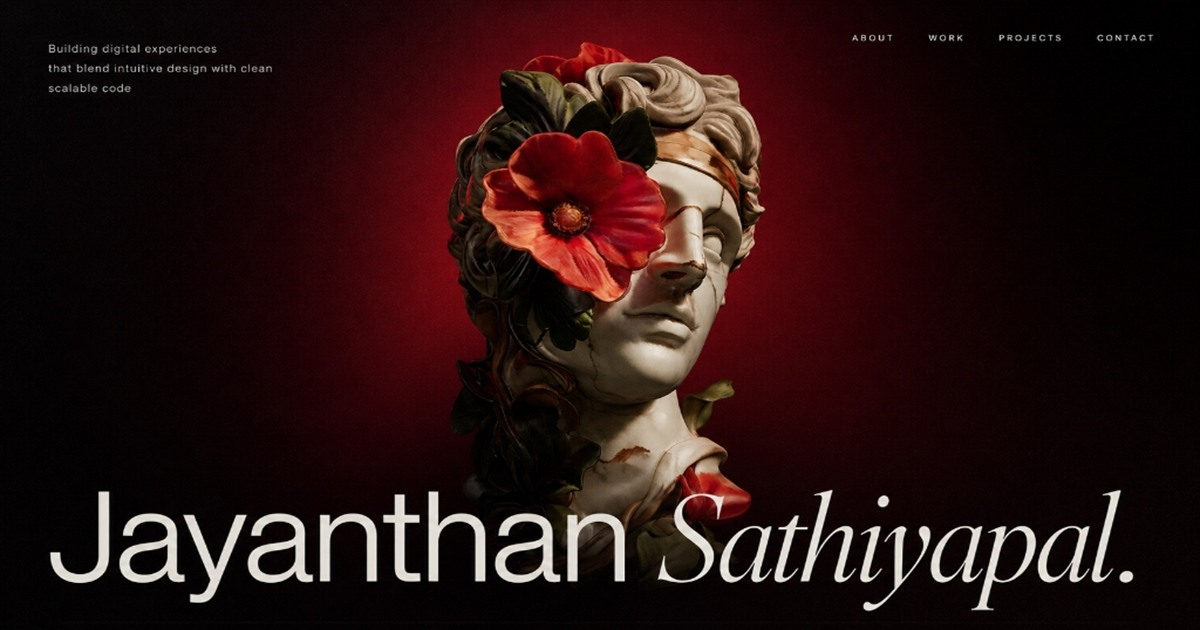
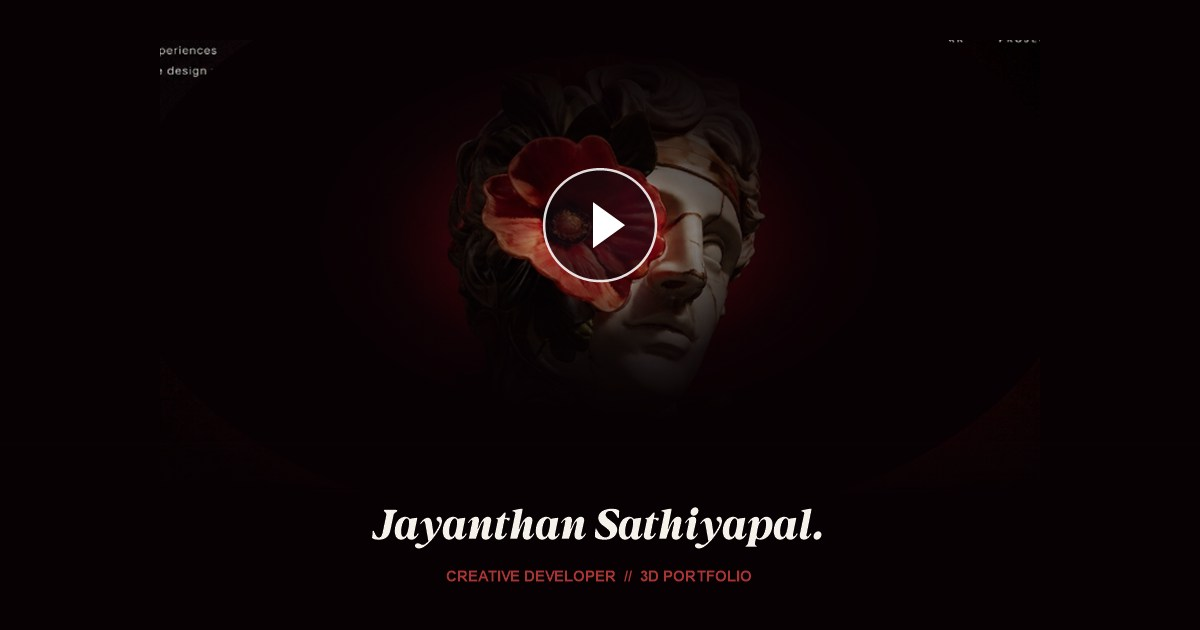
feat: add square-safe YouTube-style centered play preview and video og tags for stacked share layout

diff --git a/index.html b/index.html
@@ -16,18 +16,26 @@
   <meta name="author" content="Jayanthan Sathiyapal" />
   <meta name="theme-color" content="#070103" />
 
-  <!-- Open Graph / Facebook / LinkedIn / WhatsApp -->
-  <meta property="og:type" content="website" />
+  <!-- Open Graph / Facebook / LinkedIn / WhatsApp / Rich Media -->
+  <meta property="og:type" content="video.other" />
   <meta property="og:url" content="https://artgala-mu.vercel.app/" />
+  <meta property="og:site_name" content="artgala-mu.vercel.app" />
   <meta property="og:title" content="Jayanthan Sathiyapal | Creative Developer" />
-  <meta property="og:description" content="Building digital experiences that blend intuitive design with clean scalable code." />
+  <meta property="og:description" content="Building digital experiences that blend intuitive design with clean scalable code. 3D Creative Portfolio." />
   <meta property="og:image" content="https://artgala-mu.vercel.app/og-image.jpg" />
   <meta property="og:image:secure_url" content="https://artgala-mu.vercel.app/og-image.jpg" />
   <meta property="og:image:type" content="image/jpeg" />
   <meta property="og:image:width" content="1200" />
   <meta property="og:image:height" content="630" />
   <meta property="og:image:alt" content="Jayanthan Sathiyapal — Creative Developer Portfolio" />
-  <meta property="og:site_name" content="artgala-mu.vercel.app" />
+
+  <!-- Video Open Graph tags to trigger WhatsApp & social media stacked video player card layout -->
+  <meta property="og:video" content="https://artgala-mu.vercel.app/" />
+  <meta property="og:video:url" content="https://artgala-mu.vercel.app/" />
+  <meta property="og:video:secure_url" content="https://artgala-mu.vercel.app/" />
+  <meta property="og:video:type" content="text/html" />
+  <meta property="og:video:width" content="1200" />
+  <meta property="og:video:height" content="630" />
 
   <!-- Twitter / X (Large Full-Width Hero Card like YouTube) -->
   <meta name="twitter:card" content="summary_large_image" />
